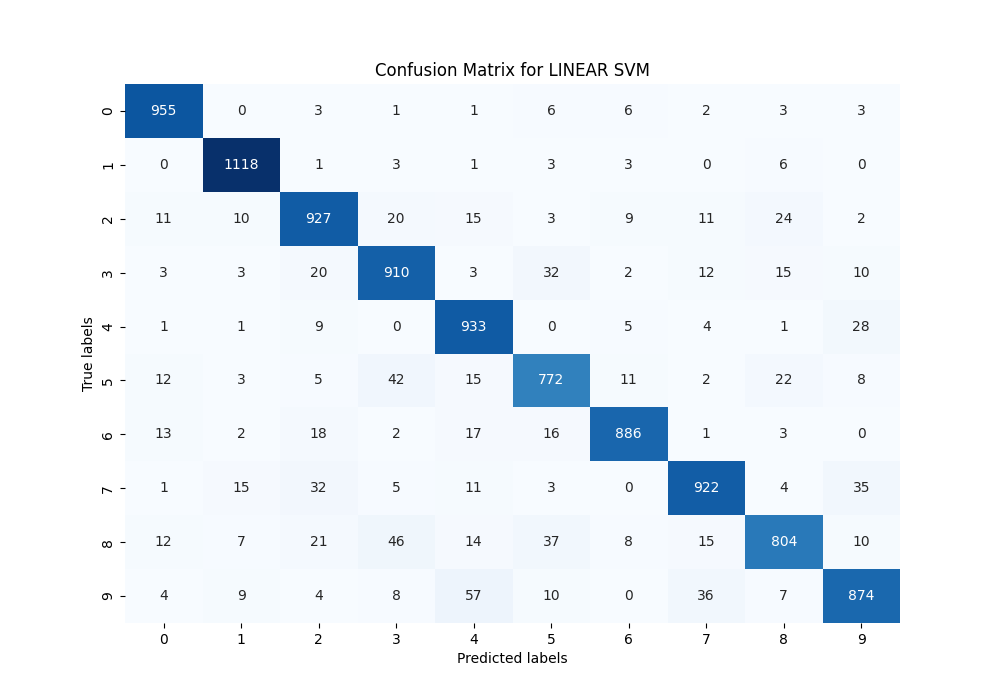
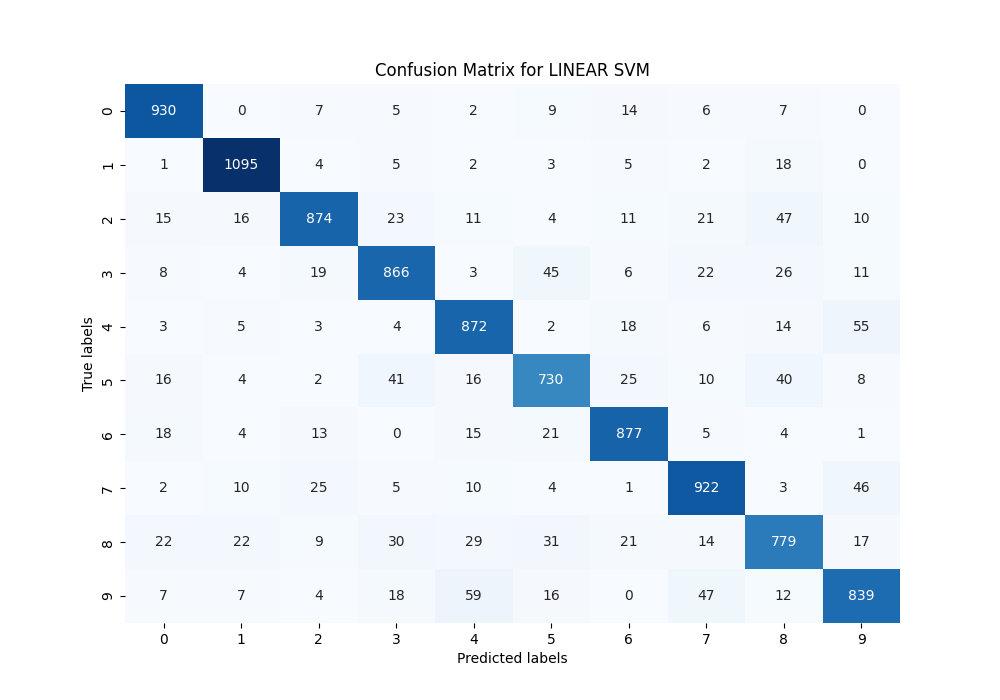
works for linear svm and knn

diff --git a/main.py b/main.py
@@ -1,5 +1,6 @@
 import numpy as np
 import matplotlib.pyplot as plt
+from sklearn.neighbors import KNeighborsClassifier
 from tensorflow.keras.datasets import mnist
 from sklearn import svm, metrics
 from sklearn.preprocessing import StandardScaler
@@ -10,7 +11,7 @@ import os
 import seaborn as sns
 
 def load_config():
-    global use, algorithms, train_size  # Aseguramos que 'algorithms' sea global
+    global use, algorithms, train_size, hyperparameters  # Aseguramos que 'algorithms' sea global
     print("Configuration loaded")
     if len(sys.argv) > 1:
         if sys.argv[1] == "--help":
@@ -33,25 +34,97 @@ def load_config():
             train_size = config['TRAIN_SIZE']
         else:
             train_size = 5000
+        if 'HYPERPARAMETERS' in config:
+            hyperparameters = config['HYPERPARAMETERS']
 
 
 def linear_svm(x_train, y_train, x_test, y_test):
-    # Initialize the SVM classifier (with a linear kernel for speed)
-    clf = svm.SVC(kernel='linear')
+    global hyperparameters
+    
+    # Default hyperparameters for Linear SVM
+    C = 1.0
+    loss = 'hinge'
+    penalty = 'l2'
+    dual = True
+    tol = 1e-3
+    max_iter = 1000
+
+    # Check if hyperparameters are provided in the config file
+    if 'LINEAR SVM' in hyperparameters:
+        print("Using custom hyperparameters for LINEAR SVM.")
+        if 'C' in hyperparameters['LINEAR SVM']:
+            C = hyperparameters['LINEAR SVM']['C']
+        if 'LOSS' in hyperparameters['LINEAR SVM']:
+            loss = hyperparameters['LINEAR SVM']['LOSS'].lower()  # Lowercase to match valid input
+        if 'PENALTY' in hyperparameters['LINEAR SVM']:
+            penalty = hyperparameters['LINEAR SVM']['PENALTY'].lower()  # Lowercase to match valid input
+        if 'DUAL' in hyperparameters['LINEAR SVM']:
+            dual = hyperparameters['LINEAR SVM']['DUAL'].lower() == "true"  # Convert to boolean
+        if 'TOL' in hyperparameters['LINEAR SVM']:
+            tol = hyperparameters['LINEAR SVM']['TOL']
+        if 'MAX_ITER' in hyperparameters['LINEAR SVM']:
+            max_iter = hyperparameters['LINEAR SVM']['MAX_ITER']
+    else:
+        print("Using default hyperparameters for LINEAR SVM.")
+    
+    # Initialize the SVM classifier with the specified hyperparameters
+    clf = svm.LinearSVC(C=C, loss=loss, penalty=penalty, dual=dual, tol=tol, max_iter=max_iter)
+
     # Train the model with the reduced subset
     clf.fit(x_train, y_train)
 
     # Make predictions
     predicted = clf.predict(x_test)
 
-    # Print the classification report and confusion matrix
+    # Collect the hyperparameters used
+    hp = {
+        "C": C,
+        "LOSS": loss,
+        "PENALTY": penalty,
+        "DUAL": dual,
+        "TOL": tol,
+        "MAX_ITER": max_iter
+    }
+
+    # Save results and hyperparameters
+    save_results("LINEAR SVM", y_test, predicted, hp)
+
+def knn(x_train, y_train, x_test, y_test):
+    global hyperparameters
+    #Default hyperparameters
+    n_neighbors = 5
+    p = 2
+    algorithm = 'auto'
+    weights = 'uniform'
+    metric = 'minkowski'
+
+    # Check if hyperparameters are provided in the config file
+    if 'KNN' in hyperparameters:
+        if 'N_NEIGHBORS' in hyperparameters['KNN']:
+            n_neighbors = hyperparameters['KNN']['N_NEIGHBORS']
+        if 'P' in hyperparameters['KNN']:
+            p = hyperparameters['KNN']['P']
+        if 'ALGORITHM' in hyperparameters['KNN']:
+            algorithm = hyperparameters['KNN']['ALGORITHM']
+        if 'WEIGHTS' in hyperparameters['KNN']:
+            weights = hyperparameters['KNN']['WEIGHTS']
+        if 'METRIC' in hyperparameters['KNN']:
+            metric = hyperparameters['KNN']['METRIC']
     
-    save_results("LINEAR SVM", y_test, predicted)
+    # Initialize the KNN classifier
+    clf = KNeighborsClassifier(n_neighbors=n_neighbors, p=p, algorithm=algorithm, weights=weights, metric=metric)
+    # Train the model with the reduced subset
+    clf.fit(x_train, y_train)
+
+    # Make predictions
+    predicted = clf.predict(x_test)
+
+    hp = {"N_NEIGHBORS": n_neighbors, "P": p, "ALGORITHM": algorithm, "WEIGHTS": weights, "METRIC": metric}
+
+    save_results("KNN", y_test, predicted, hp)
 
 
-
-
-def save_results(algorithm, y_test, predicted):
+def save_results(algorithm, y_test, predicted, hyperparameters):
     # Define the base output directory
     base_output_dir = 'output'
     
@@ -83,13 +156,19 @@ def save_results(algorithm, y_test, predicted):
     plt.savefig(confusion_matrix_img_path)
     plt.close()
 
+    # Save the hyperparameters as txt
+    hyperparameters_path = os.path.join(algorithm_dir, 'hyperparameters.txt')
+    with open(hyperparameters_path, 'w') as f:
+        f.write(f"Hyperparameters for {algorithm}:\n")
+        f.write(json.dumps(hyperparameters, indent=4))
+
     print(f"Results saved for {algorithm} in {algorithm_dir}")
 
 #######################################################################################################################
                                         #   M A I N     F U N C T I O N   #
 #######################################################################################################################
 def main():
-    global algorithms, use, train_size
+    global algorithms, use, train_size, hyperparameters
     load_config()
     # Load the MNIST dataset
     (x_train, y_train), (x_test, y_test) = mnist.load_data()
@@ -123,12 +202,20 @@ def main():
     print("Using the following algorithms: ", algorithms)
     print("-----------------------------------------------")
 
+    
     for algorithm in algorithms:
         if algorithm == "LINEAR SVM":
             print(f"Running {algorithm}...")
             start_time = time.time()
             linear_svm(x_train_small, y_train_small, x_test, y_test)
             print(f"Training completed for {algorithm} in {time.time() - start_time:.2f} seconds")
+        if algorithm == "KNN":
+            print(f"Running {algorithm}...")
+            start_time = time.time()
+            knn(x_train_small, y_train_small, x_test, y_test)
+            print(f"Training completed for {algorithm} in {time.time() - start_time:.2f} seconds")
+    
+
 
     
 
